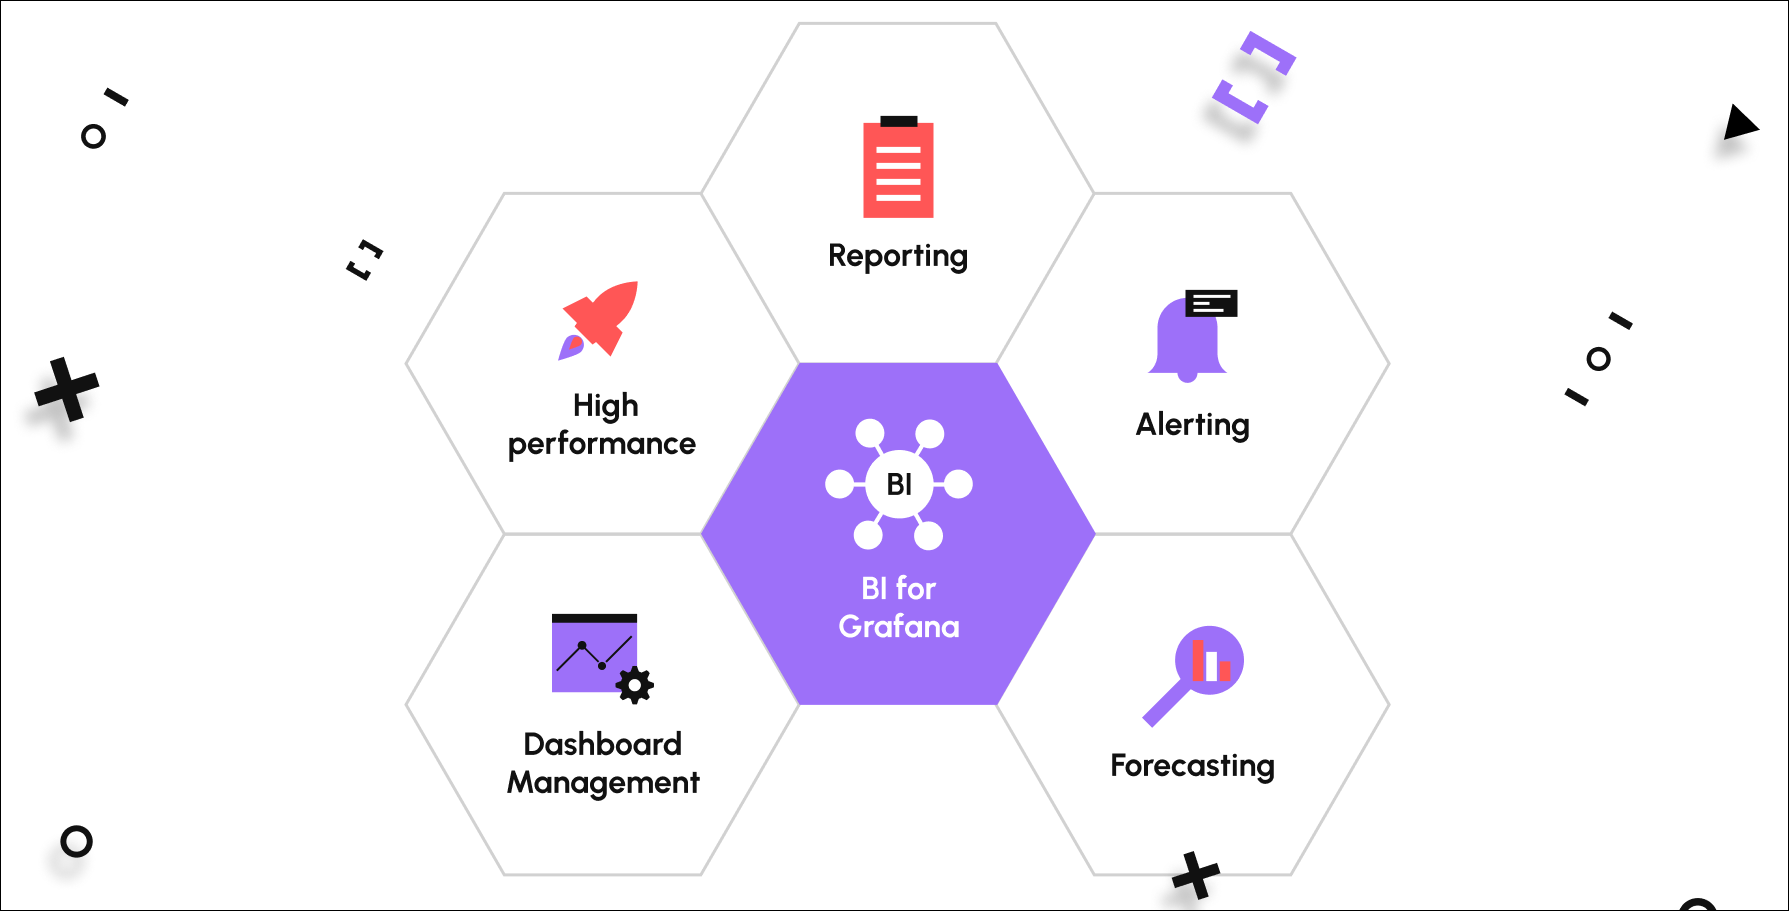
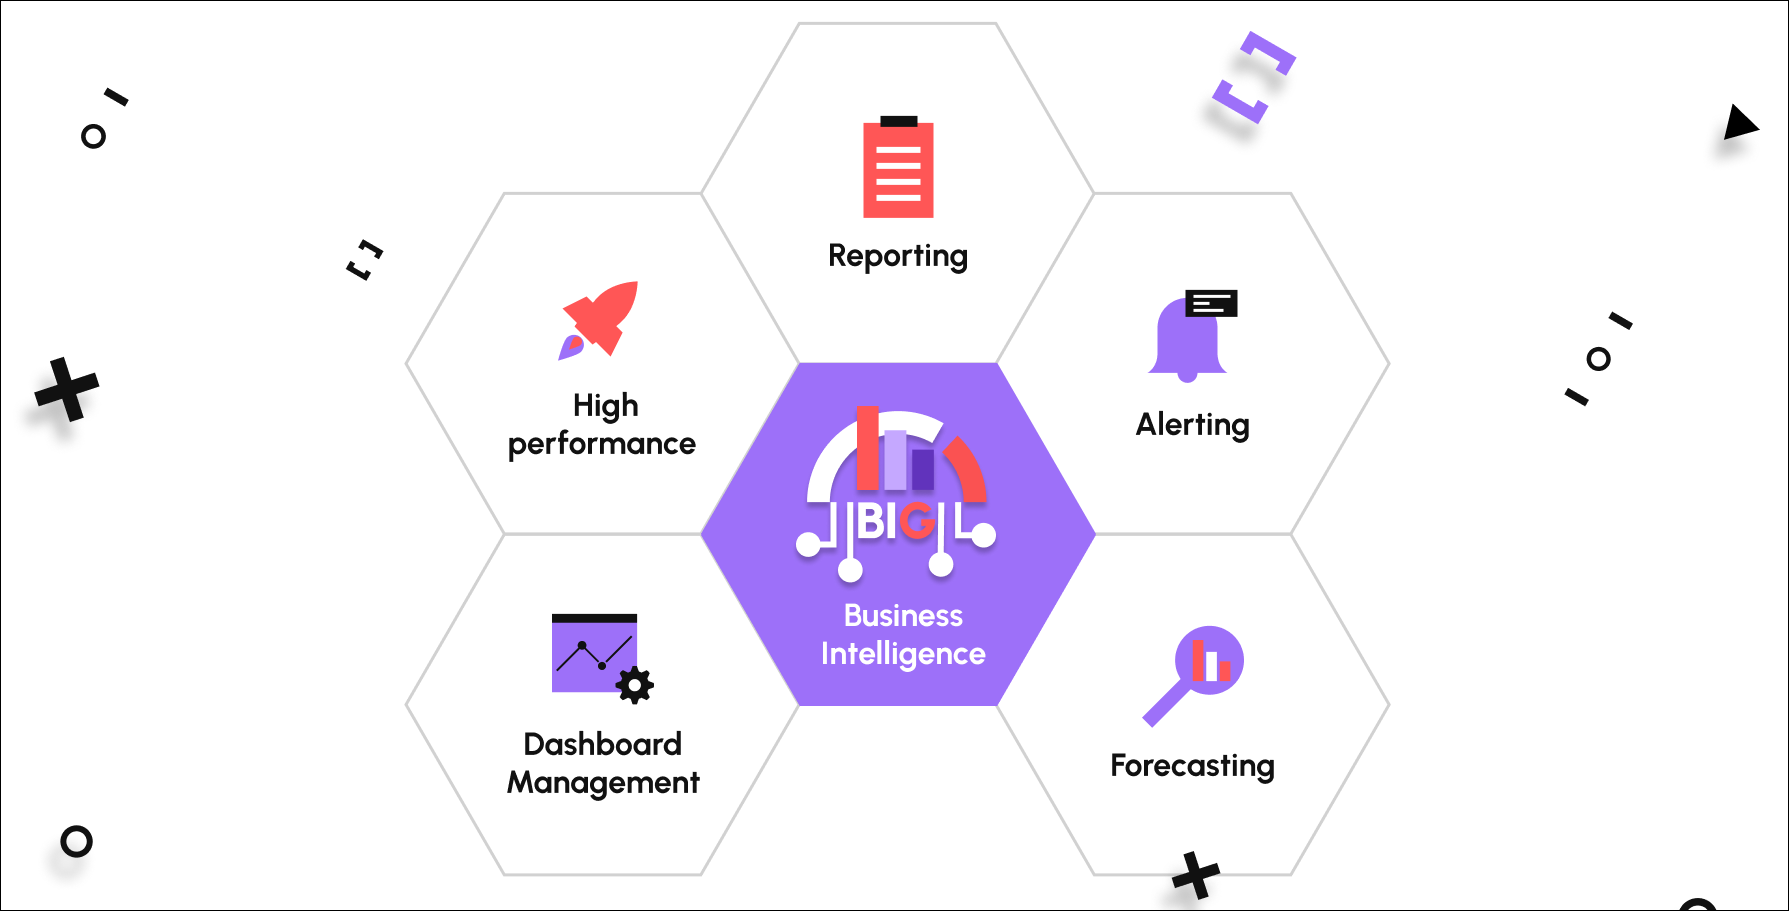
Add BI to Main page

Changed region(s): [[0.4304, 0.4303, 0.5534, 0.7377]]

diff --git a/src/pages/index.tsx b/src/pages/index.tsx
@@ -83,6 +83,48 @@ const Main = (siteConfig) => {
         </div>
       </div>
 
+      <div id="Plugins" className="container margin-vert--md padding-vert--md">
+        <h2 className={clsx(styles.header, "hero__title")}>
+          <span>BI(G)</span>
+        </h2>
+        <div className="container margin-vert--lg">
+          <div className="row">
+            <div className="col col--7 margin-vert--lg">
+              <h1 className="hero__title margin-vert--lg">
+                {siteConfig.tagline}
+              </h1>
+
+              <p className="hero__subtitle margin-vert--md">
+                Business Intelligence for Grafana simplifies alerting for
+                business users, providing them with an accessible platform.
+              </p>
+
+              <div className="margin-vert--lg">
+                <a
+                  className={clsx(
+                    "button button--primary button--lg",
+                    styles.getStarted
+                  )}
+                  href={useBaseUrl("/big")}
+                >
+                  Learn More&nbsp;&nbsp;→
+                </a>
+              </div>
+            </div>
+            <div className="col col--5">
+              <ThemedImage
+                className={clsx(styles.heroBannerLogo, "margin-vert--md")}
+                sources={{
+                  light: useBaseUrl("/img/index/big.svg"),
+                  dark: useBaseUrl("/img/index/big.dark.svg"),
+                }}
+                alt="Business Intelligence for Grafana"
+              />
+            </div>
+          </div>
+        </div>
+      </div>
+
       <div id="Blogs" className="container margin-vert--md padding-vert--md">
         <h2 className={clsx(styles.header, "hero__title")}>
           <span>Blog Posts</span>

diff --git a/config/navbar.js b/config/navbar.js
@@ -41,6 +41,10 @@ const navbar = {
           label: "Related Blog posts",
           to: "/blog/tags/business-intelligence",
         },
+        {
+          label: "Release Notes",
+          to: "/big/release",
+        },
       ],
     },
     {
